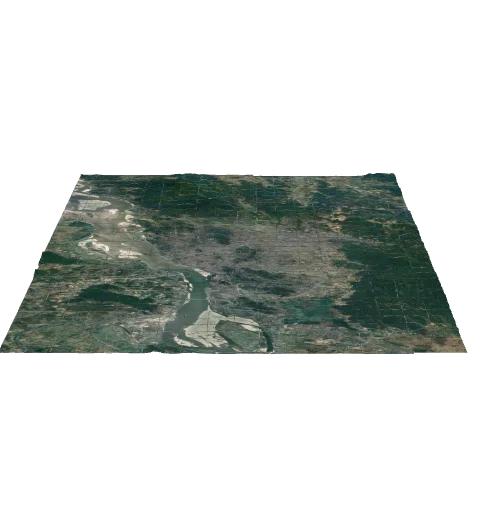
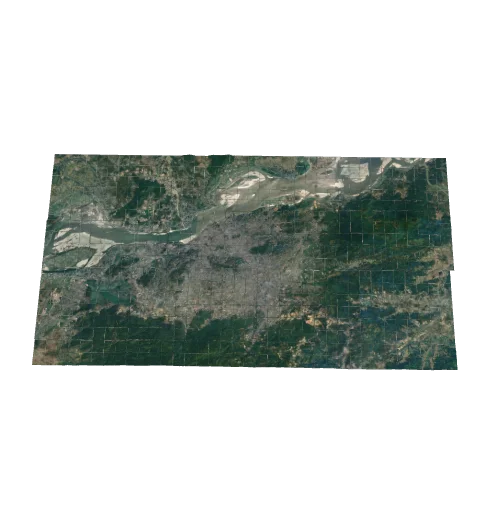
arupdate

Changed region(s): [[0.0, 0.2935, 0.9375, 0.7339]]

diff --git a/model/index.html b/model/index.html
@@ -9,7 +9,7 @@
   </head>
   <body>
     <!-- <model-viewer> HTML element -->
-    <model-viewer src="cleanesterbig.glb" ar ar-modes="webxr scene-viewer quick-look" camera-controls poster="poster.webp" shadow-intensity="1" tone-mapping="neutral">
+    <model-viewer src="cleanesterbig.glb" ar ar-modes="webxr scene-viewer quick-look" camera-controls poster="poster.webp" shadow-intensity="1" tone-mapping="neutral" camera-orbit="-629.2deg 22.5deg 365.8m" field-of-view="30deg" min-camera-orbit="auto 0deg auto" max-camera-orbit="auto 90deg auto" ar ar-placement="wall">
       <div class="progress-bar hide" slot="progress-bar">
           <div class="update-bar"></div>
       </div>
